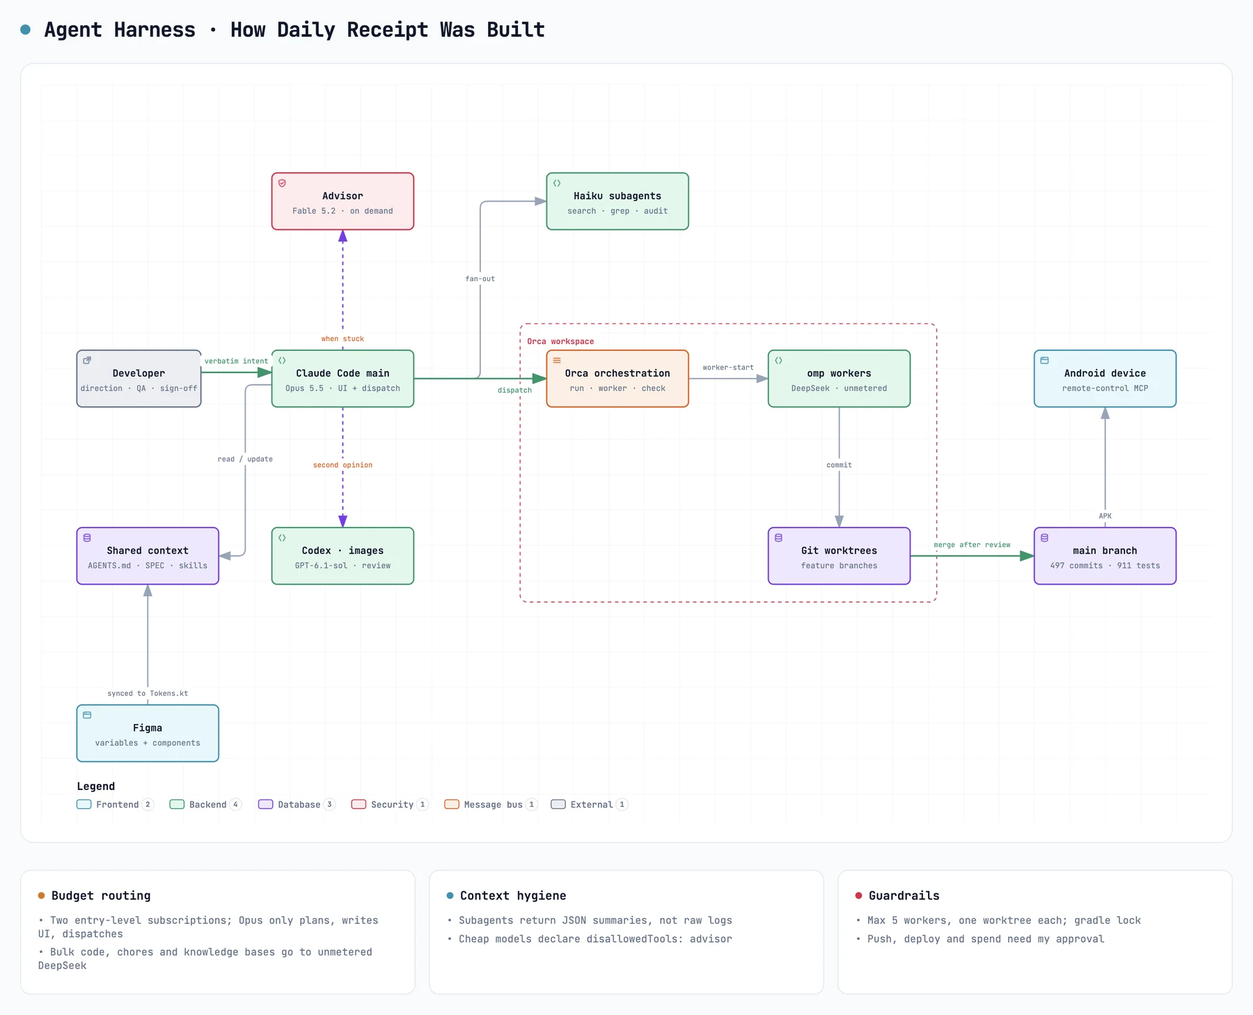
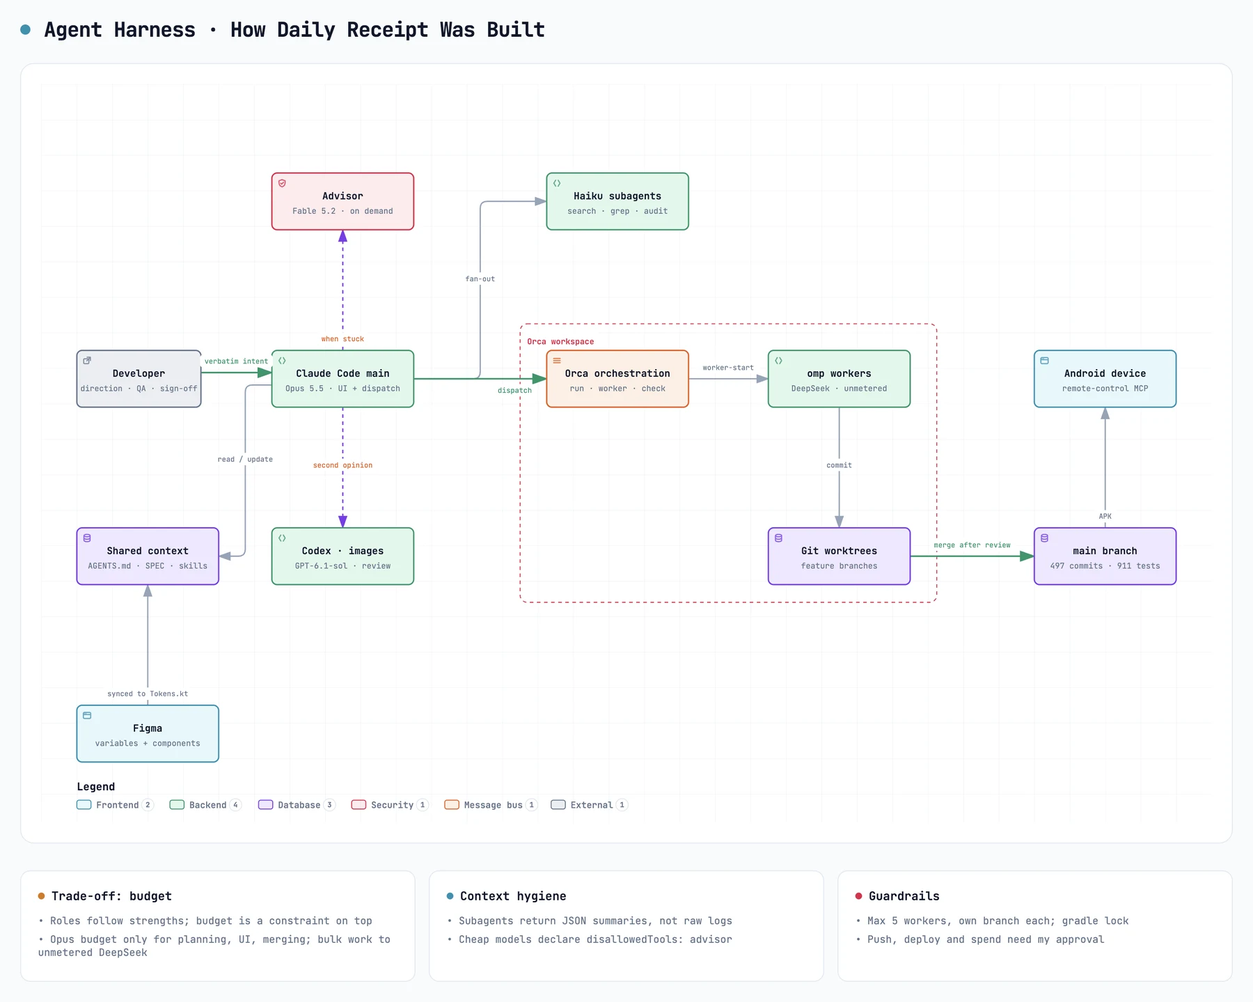
post: 今日小票 new title and cover; split by strengths, budget as trade-off

diff --git a/src/content/blog-en/project-xiaopiao.md b/src/content/blog-en/project-xiaopiao.md
@@ -1,6 +1,6 @@
 ---
-title: "Daily Receipt: Two Entry-Level Subscriptions, Five Models, One Working App"
-description: "One developer, two entry-level AI subscriptions and five models built an Android bookkeeping app in three weeks. How to route work by budget, keep context lean, and turn complaints into rules. The setup is open source."
+title: "Claude + GPT + DeepSeek Teamed Up and Made Me 10x Faster"
+description: "One developer, two entry-level AI subscriptions and five models built an Android bookkeeping app in three weeks. How to split work by each model's strengths, make trade-offs inside a tight budget, keep context lean, and turn complaints into rules. The setup is open source."
 date: "2026.11.14"
 readTime: "15 min read"
 tag: "Daily Receipt"
@@ -12,8 +12,8 @@ tagFilters:
   "Multi-agent": "ai"
   "Agent Skill": "ai"
   "Android": "android"
-image: "project-xiaopiao-cover.webp"
-imageAlt: "A thermal printer feeding out a receipt on a desk at night"
+image: "project-xiaopiao-cover-girls.webp"
+imageAlt: "Anime-style personifications of Claude, GPT and DeepSeek peeking over the bottom edge, under the words \"the three of us together are unbeatable\""
 imageWidth: 1672
 imageHeight: 940
 badge: "Daily Receipt"
@@ -36,24 +36,24 @@ related:
 
 <div class="tldr">
 <b>TL;DR</b>
-Daily Receipt is an Android bookkeeping app I built. It reads Alipay and WeChat Pay notifications to log each payment, and at night it prints your day as a receipt. This post is mostly about how it got built. I had one entry-level Claude subscription and one entry-level GPT subscription, so I routed work by budget: Opus 5.5 only writes the frontend and dispatches work; unmetered DeepSeek v4.1 Flash handles the backend, chores and knowledge bases; Haiku does search and keeps context lean; GPT-6.1-sol in Codex cross-reviews and generates images; Fable 5.2 is called in when I'm stuck. Three weeks: 497 commits and 911 unit tests in the dev repo. The whole setup is open source.
+Daily Receipt is an Android bookkeeping app I built. It reads Alipay and WeChat Pay notifications to log each payment, and at night it prints your day as a receipt. This post is mostly about how it got built. I split the work by what each model does best: Opus 5.5 plans, writes the frontend and dispatches work; DeepSeek v4.1 Flash handles the backend, chores and knowledge bases; Haiku does search and keeps context lean; GPT-6.1-sol in Codex cross-reviews and generates images; Fable 5.2 is called in when I'm stuck. I had only one entry-level Claude subscription and one entry-level GPT subscription; the budget is a constraint the system trades off against, not the reason for the split. Three weeks: 497 commits and 911 unit tests in the dev repo. The whole setup is open source.
 </div>
 
 The trigger was an AI agent contest run by Alipay. It had a wish pool: 812 requests after deduplication, and the largest group, 149 of them, was about spending and bookkeeping. The most-supported single wish was "catch the auto-renewals that quietly take my money," with 298 votes. Those numbers told me plenty of people want this.
 
 The idea is simple. Log a payment automatically the moment money leaves your account, then at night print the day as a receipt: line items, a total, and one comment that doesn't lecture. It's called Daily Receipt: a native Android app, plus a web version and a Node service I run myself.
 
-I'm one person building three clients, with an entry-level subscription each for Claude and GPT. This post covers the product, but most of it is about development: how an idea gets questioned into a spec, how a small budget gets split across five models, how to keep context clean, and how complaints become rules. I call all of this the harness, the engineering layer around the models: roles, context, tools and gates. I've published the configuration as a repo; the link is at the end.
+I'm one person building three clients, with an entry-level subscription each for Claude and GPT. This post covers the product, but most of it is about development: how an idea gets questioned into a spec, how five models split the work, how a small budget gets traded off, how to keep context clean, and how complaints become rules. I call all of this the harness, the engineering layer around the models: roles, context, tools and gates. I've published the configuration as a repo; the link is at the end.
 
 ## Problem
 
 The product problem is clear. There are plenty of bookkeeping apps already, and the hard part is sticking with one. Every purchase means opening the app, picking a category, typing an amount, and after a few days most people quit. And when AI meets money, the biggest fear is that it casually makes up a number.
 
-Development had four problems. The first three all showed up within two days. One: features the AI wrote were correct, but the UI was ugly. Looking at it on my phone, my reaction was "the buttons and stuff look really bad." Two: in a new session, settled decisions got reverted, and a sample receipt I had deleted came back. Three: with too many agents running at once, they kept changing each other's code and nothing got finished.
+Development had three problems, and all of them showed up within two days. One: features the AI wrote were correct, but the UI was ugly. Looking at it on my phone, my reaction was "the buttons and stuff look really bad." Two: in a new session, settled decisions got reverted, and a sample receipt I had deleted came back. Three: with too many agents running at once, they kept changing each other's code and nothing got finished.
 
-The fourth problem was there from day one: budget. Entry-level subscriptions meter usage in time windows, a strong model like Opus can use up a window quickly, and then you wait. One person, three clients, a lot of code: every Opus token had to count.
+One constraint was there from day one: budget. Entry-level subscriptions meter usage in time windows, a strong model like Opus can use up a window quickly, and then you wait. One person, three clients, a lot of code: every Opus token had to count.
 
-Everything below is about those four problems.
+Everything below addresses those three problems while making trade-offs inside that budget.
 
 ## Approach
 
@@ -65,20 +65,22 @@ I reversed a big one the day the spec was final. The first plan was screenshot r
 
 This is also the cheapest step in budget terms. Settling requirements in conversation costs a few rounds of Q&A. Starting before they're settled costs rewrites of whole chunks of code.
 
-### Route Work by Budget
+### Give Each Model Its Own Job
 
 <figure class="illu method">
-  <img src="/citygenius-blog/assets/project-xiaopiao-harness.webp" alt="Agent harness architecture of Daily Receipt" width="1800" height="1458" loading="lazy" />
+  <img src="/citygenius-blog/assets/project-xiaopiao-harness.webp" alt="Agent harness architecture of Daily Receipt" width="1800" height="1439" loading="lazy" />
   <figcaption>The agent harness behind Daily Receipt. On the left, me and the Opus 5.5 main session, which only plans, writes the frontend and dispatches: search goes to Haiku subagents; backend and chores go through Orca to DeepSeek in omp, omp work is committed on separate branches and merged into main only after review. Codex gives a second opinion and makes images; Fable 5.2 appears only when I am stuck. Bottom left is the context every model shares: AGENTS.md, the spec, skills, and Figma variables named after Tokens.kt.</figcaption>
 </figure>
 
-The rule is one line: the more expensive the model, the fewer and more critical its jobs.
+The split rests on two questions: what is this model best at, and does this job need to be kept apart from others? Planning and UI need someone watching the whole picture, the model that writes code shouldn't be the one reviewing it, and search that reads a lot but concludes little shouldn't crowd the main session.
 
-- **Opus 5.5** only writes the frontend and dispatches. It breaks down tasks, writes specs, writes the app's UI mainline, and sends out everything that can be split off. It is credited on 180 commits in the dev repo, from the first day to the last.
-- **DeepSeek v4.1 Flash** (running in omp) is the foundation of the split because it is unmetered. Backend endpoints, bulk code, chores, and collecting and organizing knowledge-base material all go to it. Opus writes the spec in detail, DeepSeek implements it, Opus polishes. It is credited on 70-plus commits.
+- **Opus 5.5** plans, writes the frontend and dispatches. It breaks down tasks, writes specs, writes the app's UI mainline, and sends out everything that can be split off. It is credited on 180 commits in the dev repo, from the first day to the last.
+- **DeepSeek v4.1 Flash** (running in omp) handles the backend, chores and knowledge bases. This work has clear boundaries and a lot of volume, and it goes well from a written spec: backend endpoints, bulk code, and collecting and organizing knowledge-base material all go to it. Opus writes the spec in detail, DeepSeek implements it, Opus polishes. It is credited on 70-plus commits.
 - **Haiku** does search and research, and its real job is protecting the main session's context window. Walking the repo, tracing call chains, finding open-source implementations: these read many files and leave few conclusions, and letting Opus do them means reading logs with the most expensive tokens. Haiku reads, then returns a short JSON: findings, file locations, gaps.
 - **GPT-6.1-sol in Codex** cross-reviews and generates images. A model from another company spots Claude's blind spots, and it made the photos on the landing page.
 - **Fable 5.2** is the advisor, used at three moments only: before an architecture locks in, when the same error shows up a second time, and before a risky task is declared done.
+
+The budget is a trade-off on top of this split. Entry-level windows are tight, so a few rules follow: Opus's budget goes only to planning, frontend and merging; high-volume work goes to DeepSeek first, since it is unmetered; file reading goes to Haiku and stays out of the main session.
 
 The subagents' limits live in their frontmatter, which is more reliable than a verbal agreement. `search` and `grep` get read-only tools; `audit` adds Bash but runs in plan mode and only reviews committed code in an isolated worktree. All of them declare `disallowedTools: advisor`, so a cheap model can't quietly call the expensive advisor in the background, and `omitClaudeMd: true` keeps them from loading the main session's long rulebook, saving a little more on every call.
 
@@ -165,13 +167,13 @@ It's a 0.5.1 preview, still iterating daily. The receipt comment is still templa
 
 The whole setup is on GitHub at [37chengshan/agent-harness](https://github.com/37chengshan/agent-harness): the shared `AGENTS.md`, four Haiku subagents, the `app-ui-design` skill, the Orca dispatch workflow, templates for the spec and the verbatim log, and the sources for both diagrams in this post. Following Anthropic's advice, the repo also includes two extra templates: a `features.json` feature list in which workers may only flip pass or fail, and a Stop hook that won't let a session finish until the tests pass.
 
-If you take three things from this post, take these. Give expensive models only the critical work and send search and chores to cheap ones. Put whatever must be remembered into files instead of hoping the model remembers. Every time you complain, write it into a skill or the verbatim log, once.
+If you take three things from this post, take these. Split work by strengths, keep writing and reviewing apart, keep search out of the main session, and treat the budget as a trade-off on top. Put whatever must be remembered into files instead of hoping the model remembers. Every time you complain, write it into a skill or the verbatim log, once.
 
 Daily Receipt's APK and notes are on [GitHub](https://github.com/37chengshan/xiaopiao). Try it, and feel free to file suggestions in Issues.
 
 ## FAQ
 ### Why not let the strongest model do everything?
-The budget won't stretch, and it doesn't need to. Planning and UI need a strong model watching the whole picture. Jobs with clear boundaries, like building a backend from a spec or organizing a knowledge base, are cheaper to run in parallel on an unmetered model, and a small model is enough for search and research. A model from another company doing cross-review also catches blind spots the first model has about its own work.
+It doesn't need to. Different jobs need different strengths. Planning and UI need a strong model watching the whole picture. Jobs with clear boundaries, like building a backend from a spec or organizing a knowledge base, suit a model that is good at high-volume code, running in parallel, and a small model is enough for search and research. Writing and reviewing should be separate too: a model from another company catches the first model's blind spots. A tight budget only makes this split pay off more.
 ### Is an entry-level subscription really enough?
 Only if the main session stays out of chores. Opus's budget goes to planning, frontend and merging; reading files goes to Haiku, bulk code to DeepSeek. Rework costs the most, so question requirements and write the spec first.
 ### Don't parallel agents break each other's code?

diff --git a/src/content/blog/project-xiaopiao.md b/src/content/blog/project-xiaopiao.md
@@ -1,6 +1,6 @@
 ---
-title: "今日小票：两份最低档订阅，一队 AI，把想法做成 App"
-description: "一个人、两份最低档订阅、五个模型，三周做出一个 Android 记账 App。这篇讲怎么按额度给模型分工、怎么守住上下文、怎么把吐槽变成规则，配置已经开源。"
+title: "Claude+GPT+DeepSeek联手，效率提升10倍！"
+description: "一个人、五个模型，三周做出一个 Android 记账 App。这篇讲怎么按长处给模型分工，怎么在两份最低档订阅的额度里做取舍，怎么守住上下文、把吐槽变成规则。配置已经开源。"
 date: "2026.11.14"
 readTime: "15 分钟阅读"
 tag: "今日小票"
@@ -12,8 +12,8 @@ tagFilters:
   "多 Agent 协作": "ai"
   "Agent Skill": "ai"
   "Android": "android"
-image: "project-xiaopiao-cover.webp"
-imageAlt: "夜晚的书桌上，一台热敏打印机正在吐出小票"
+image: "project-xiaopiao-cover-girls.webp"
+imageAlt: "Claude、GPT、DeepSeek 三个拟人化的动漫女孩并排趴在画面底部，上方写着「我们三个联手，无敌」"
 imageWidth: 1672
 imageHeight: 940
 badge: "今日小票"
@@ -36,24 +36,24 @@ related:
 
 <div class="tldr">
 <b>一句话总结</b>
-今日小票是我做的 Android 记账 App：读支付宝、微信的支付通知自动记账，晚上把一天的花销打印成一张小票。这篇主要讲它是怎么做出来的。我手里只有 Claude 和 GPT 各一份最低档订阅，所以按额度给模型分工：Opus 5.5 只管前端和派活，不限量的 DeepSeek v4.1 Flash 扛后端、杂活和知识库，Haiku 负责搜索、守住上下文，Codex 里的 GPT-6.1-sol 做交叉审查和生图，卡住时再问 Fable 5.2。三周下来，开发仓库有 497 个提交、911 处单元测试，整套配置已经开源。
+今日小票是我做的 Android 记账 App：读支付宝、微信的支付通知自动记账，晚上把一天的花销打印成一张小票。这篇主要讲它是怎么做出来的。我按各自的长处给模型分工：Opus 5.5 规划、写前端、派活，DeepSeek v4.1 Flash 写后端、干杂活、建知识库，Haiku 负责搜索、守住上下文，Codex 里的 GPT-6.1-sol 做交叉审查和生图，卡住时再问 Fable 5.2。手里只有 Claude 和 GPT 各一份最低档订阅，额度是整套系统要权衡的约束，不是分工的出发点。三周下来，开发仓库有 497 个提交、911 处单元测试，整套配置已经开源。
 </div>
 
 做这个 App 的契机是支付宝的一个智能体比赛。比赛有个许愿池，去重以后有 812 条需求，最大的一类是消费记账和财务，有 149 条；支持数最高的一条是「帮我揪出悄悄扣钱的自动续费」，298 个人点了支持。看到这些数字，我确定这是很多人真想要的东西。
 
 想法很简单。钱花出去的时候自动记一笔，晚上把这一天打印成一张小票，有明细、有合计，再配一句不说教的点评。它叫「今日小票」，一个 Android 原生 App，加一个 Web 版和一个自己搭的 Node 服务。
 
-我一个人做三端，手里只有 Claude 和 GPT 各一份最低档订阅。这篇会介绍产品，但更多篇幅留给开发：想法怎么被拷问成 SPEC，有限的额度怎么分给五个模型，上下文怎么守住，吐槽怎么变成规则。我把这一整套叫作 harness，也就是套在模型外面的那层工程，包括分工、上下文、工具和检查。配置我整理成了一个开源仓库，文末有地址。
+我一个人做三端，手里只有 Claude 和 GPT 各一份最低档订阅。这篇会介绍产品，但更多篇幅留给开发：想法怎么被拷问成 SPEC，五个模型怎么分工，有限的额度怎么权衡，上下文怎么守住，吐槽怎么变成规则。我把这一整套叫作 harness，也就是套在模型外面的那层工程，包括分工、上下文、工具和检查。配置我整理成了一个开源仓库，文末有地址。
 
 ## 问题
 
 产品上的问题很清楚。记账 App 已经很多了，难的是坚持。每花一笔都要打开 App、选分类、输金额，几天以后大部分人就放弃了。另外，AI 和钱放在一起，最怕它顺手编一个数字。
 
-开发上的问题有四个，前三个开工两天就全碰上了。一是 AI 写的功能对，界面却丑，我在真机上看完直接吐槽「按钮什么的做的好难看」。二是换一个会话，定好的东西又被改回去，删掉的示例小票又冒了出来。三是同时开太多 agent，它们互相改来改去，什么都做不完。
+开发上的问题有三个，开工两天就全碰上了。一是 AI 写的功能对，界面却丑，我在真机上看完直接吐槽「按钮什么的做的好难看」。二是换一个会话，定好的东西又被改回去，删掉的示例小票又冒了出来。三是同时开太多 agent，它们互相改来改去，什么都做不完。
 
-第四个问题从一开始就在，那就是额度。最低档订阅按时间窗口计额度，Opus 这样的强模型很快就能把一个窗口用完，用完只能等。一个人做三端，代码量摆在那里，强模型的每个 token 都得花在刀刃上。
+另外还有一个约束从一开始就在，那就是额度。最低档订阅按时间窗口计额度，Opus 这样的强模型很快就能把一个窗口用完，用完只能等。一个人做三端，代码量摆在那里，强模型的每个 token 都得花在刀刃上。
 
-后面的做法，基本都在解决这四件事。
+后面的做法，基本都在解决这三件事，同时在额度里做取舍。
 
 ## 做法
 
@@ -65,20 +65,22 @@ related:
 
 这一步也最省额度。需求在对话里定清楚，花的是几轮问答；没定清楚就开工，返工花掉的是成段的代码。
 
-### 按额度给模型分活
+### 给每个模型分好活
 
 <figure class="illu method">
-  <img src="/citygenius-blog/assets/project-xiaopiao-harness.webp" alt="今日小票的 agent harness 架构图" width="1800" height="1458" loading="lazy" />
+  <img src="/citygenius-blog/assets/project-xiaopiao-harness.webp" alt="今日小票的 agent harness 架构图" width="1800" height="1439" loading="lazy" />
   <figcaption>今日小票的 agent harness。左边是我和 Opus 5.5 主会话；主会话只做规划、前端和派发：搜索交给 Haiku 子代理，后端和杂活经 Orca 派给 omp 里的 DeepSeek，omp 的活提交在单独的分支上，审查后才合进 main。Codex 做第二意见和生图，Fable 5.2 只在卡住时出场。左下是所有模型共用的上下文：AGENTS.md、SPEC、skills，以及和 Tokens.kt 同名的 Figma 变量。</figcaption>
 </figure>
 
-分工只有一个原则，模型越贵，干的活越少、越关键。
+分工看两件事：这个模型最擅长什么，这件活要不要和别的活分开。规划和写界面要有人盯全局，写代码的和审代码的要分开，读得多、结论少的搜索不能挤进主会话。
 
-- **Opus 5.5** 只管前端和派活。它拆任务、写规格、写 App 的界面主线，能拆出去的活全部派出去。开发仓库的提交署名里它出现了 180 次，从头到尾都在。
-- **DeepSeek v4.1 Flash**（在 omp 里跑）是整套分工的底座，因为它不限量。后端接口、成批的代码、杂活、知识库的资料收集和整理都归它。Opus 先把规格写细，它照着实现，最后再由 Opus 打磨。提交署名 70 多次。
+- **Opus 5.5** 负责规划、写前端和派活。它拆任务、写规格、写 App 的界面主线，能拆出去的活全部派出去。开发仓库的提交署名里它出现了 180 次，从头到尾都在。
+- **DeepSeek v4.1 Flash**（在 omp 里跑）写后端、干杂活、建知识库。这类活边界清楚、量大，按写好的规格就能做好，后端接口、成批的代码、知识库的资料收集和整理都归它。Opus 先把规格写细，它照着实现，最后再由 Opus 打磨。提交署名 70 多次。
 - **Haiku** 负责搜索和调研，真正的作用是守住主会话的 context window（上下文窗口）。翻仓库、查调用链、找开源实现，这类活读的文件多、留下的结论少，让 Opus 自己读，等于用最贵的 token 读日志。Haiku 读完只交回一段 JSON：结论、文件位置、还缺什么。
 - **Codex 里的 GPT-6.1-sol** 负责交叉审查和生图。换一家的模型来挑错，更容易看出 Claude 自己的盲区；落地页的照片也是它生成的。
 - **Fable 5.2** 是顾问，只在三个时刻出场：定架构之前，同一个错第二次出现时，宣布高风险任务完成之前。
+
+额度是在这套分工之上做的权衡。最低档订阅的窗口很紧，所以有几条取舍：Opus 的额度只花在规划、前端和合并上；量大的活优先给 DeepSeek，它不限量，可以放开用；读文件的活交给 Haiku，主会话不碰。
 
 子代理的边界写死在配置的 frontmatter 里，比口头约定可靠。`search` 和 `grep` 只有只读工具；`audit` 多一个 Bash，但跑在 plan 模式下，只在隔离的 worktree 里审已经提交的代码。它们都声明了 `disallowedTools: advisor`，免得便宜的模型在后台偷偷调用贵的顾问；`omitClaudeMd: true` 让它们不加载主会话那份长长的规则，每次调用又省下一截。
 
@@ -165,13 +167,13 @@ v0.5.0 的 APK 已经发在 GitHub 上，Android 8.0 以上能装。现在能用
 
 整套配置放在 GitHub 的 [37chengshan/agent-harness](https://github.com/37chengshan/agent-harness)，包括共用的 `AGENTS.md`、四个 Haiku 子代理、`app-ui-design` skill、Orca 派活流程、SPEC 和原话记录模板，以及文中两张图的源文件。按 Anthropic 文章的建议，仓库里另外放了两个模板：一份功能清单 `features.json`，worker 只能改「通过 / 未通过」；一个 Stop hook，测试不通过就不许收工。
 
-如果只能从这篇带走三件事，我会选这三件：贵的模型只干最关键的活，搜索和杂活交给便宜的；要反复用到的东西写进文件，别指望模型记住；吐槽一次，就往 skill 或原话记录里写一条。
+如果只能从这篇带走三件事，我会选这三件：按长处分工，写的和审的分开，搜索不进主会话，额度只在这之上做取舍；要反复用到的东西写进文件，别指望模型记住；吐槽一次，就往 skill 或原话记录里写一条。
 
 今日小票的 APK 和说明在 [GitHub](https://github.com/37chengshan/xiaopiao)，欢迎试用，也欢迎在 Issues 里提意见。
 
 ## 常见问题
 ### 为什么不让一个最强的模型全包？
-额度不够，也没必要。规划和写界面需要强模型盯着全局；按规格写后端、整理知识库这类边界清楚的活，交给不限量的模型并行做更划算；搜索调研用小模型就够了。换一家的模型做交叉审查，也更容易发现原模型自己的盲区。
+没必要。不同的活需要的能力不一样：规划和写界面需要强模型盯着全局；按规格写后端、整理知识库这类边界清楚的活，交给擅长写量大代码的模型并行做；搜索调研用小模型就够了。写和审也该分开，换一家的模型做交叉审查，更容易发现原模型的盲区。额度紧只是让这种分工更划算。
 ### 最低档订阅真的够用吗？
 够用的前提是主会话不干杂活。Opus 的额度只花在规划、前端和合并上，读文件交给 Haiku，大量代码交给 DeepSeek。最费额度的是返工，所以要先拷问需求、先写 SPEC。
 ### 几个 agent 同时写代码，不会互相改坏吗？
